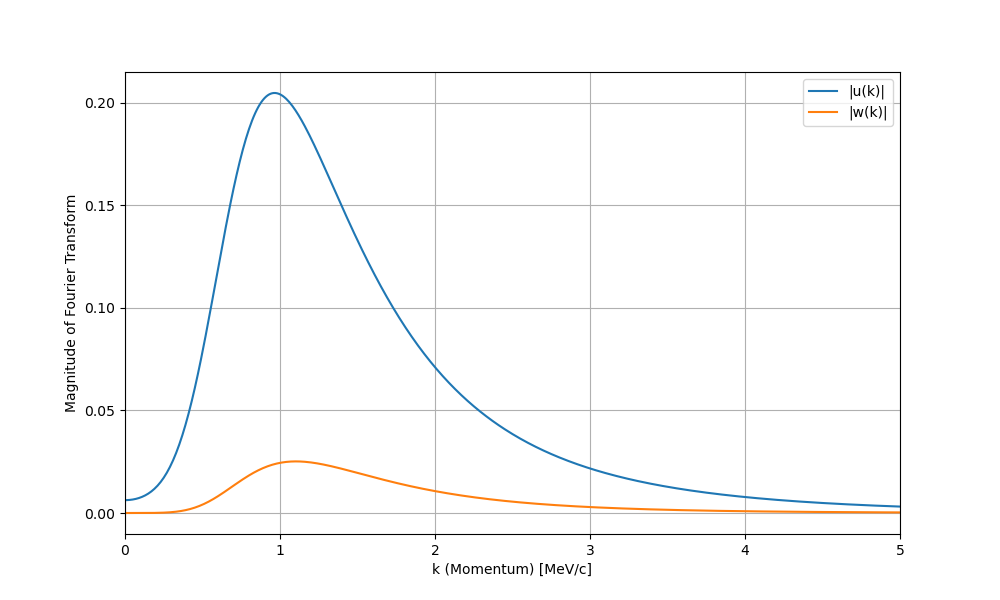
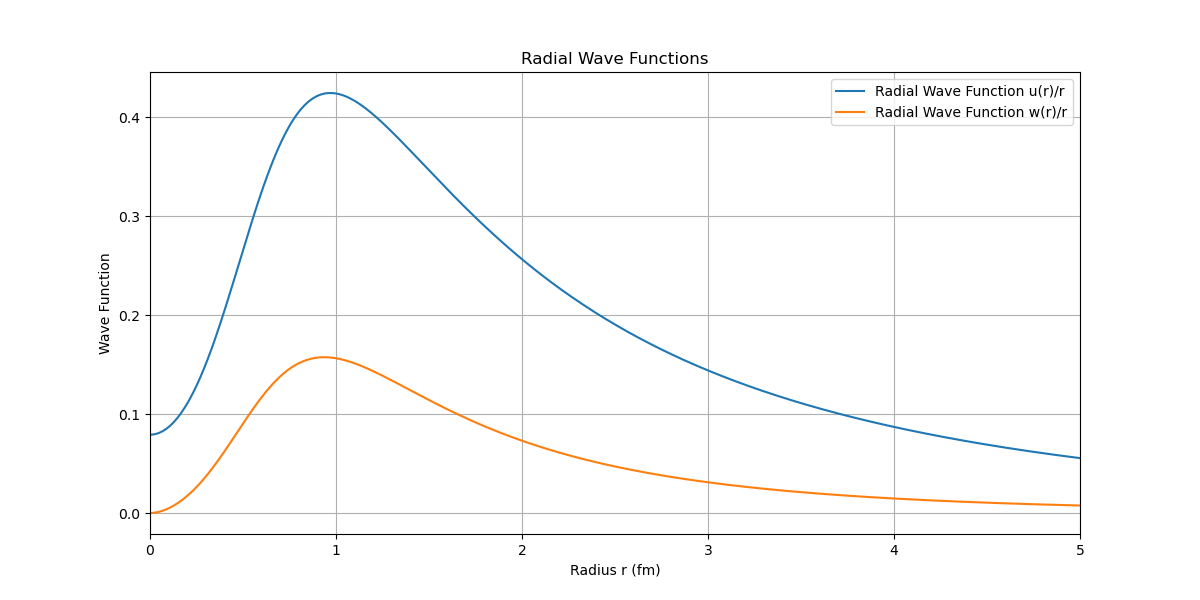
modified Deuteron fig label to u/r and w/r

diff --git a/Deuteron_AV18.py b/Deuteron_AV18.py
@@ -196,42 +196,44 @@ r = np.linspace(r0, r0 + delta * n, n + 1)
 E, u, w = norm_uw()
 
 plt.figure(figsize=(12, 6))
-plt.plot(r, u, label='Radial Wave Function u(r)')
-plt.plot(r, w, label='Radial Wave Function w(r)')
+plt.plot(r, u/r, label='Radial Wave Function u(r)/r')
+plt.plot(r, w/r, label='Radial Wave Function w(r)/r')
+plt.xlim(0,5)
 plt.title("Radial Wave Functions")
 plt.xlabel('Radius r (fm)')
 plt.ylabel('Wave Function')
 plt.legend()
 plt.grid(True)
+plt.savefig("Fig-Deuteron.png")
 plt.show()
 
 
-def fourier_transform(func_values, k, r_values):
-    integrand = func_values * np.exp(-1j * k * r_values) * r_values**2
-    result = np.trapz(integrand, r_values)
-    normalization_factor = 1 / np.sqrt(2 * np.pi)
-    return result * normalization_factor
+# def fourier_transform(func_values, k, r_values):
+#     integrand = func_values * np.exp(-1j * k * r_values) * r_values**2
+#     result = np.trapz(integrand, r_values)
+#     normalization_factor = 1 / np.sqrt(2 * np.pi)
+#     return result * normalization_factor
 
-k_values = np.linspace(0, 10, 200)
+# k_values = np.linspace(0, 10, 200)
 
-# u = [fourier_transform(u, k, r) for k in k_values]
-# w = [fourier_transform(w, k, r) for k in k_values]
+# # u = [fourier_transform(u, k, r) for k in k_values]
+# # w = [fourier_transform(w, k, r) for k in k_values]
 
-theta = np.pi / 2  # np.linspace(0, np.pi, n+1)
-phi = np.pi  # np.linspace(0, 2 * np.pi, n+1)
-theta, phi = np.meshgrid(theta, phi)
-Y_00 = sph_harm(0, 0, phi, theta)
-Y_21 = sph_harm(1, 2, phi, theta)
-phi = u * Y_00 + w * Y_21
+# theta = np.pi / 2  # np.linspace(0, np.pi, n+1)
+# phi = np.pi  # np.linspace(0, 2 * np.pi, n+1)
+# theta, phi = np.meshgrid(theta, phi)
+# Y_00 = sph_harm(0, 0, phi, theta)
+# Y_21 = sph_harm(1, 2, phi, theta)
+# phi = u * Y_00 + w * Y_21
 
-phi_k_values = [fourier_transform(phi, k, r) for k in k_values]
+# phi_k_values = [fourier_transform(phi, k, r) for k in k_values]
 
-plt.figure(figsize=(12, 6))
-plt.plot(k_values, np.real(phi_k_values), label='Real part of Phi(k)')
-plt.plot(k_values, np.imag(phi_k_values), label='Imaginary part of Phi(k)')
-plt.title("Fourier Transform of Wave Function Phi in Momentum Space")
-plt.xlabel("Momentum k (1/fm)")
-plt.ylabel("Fourier Transform")
-plt.legend()
-plt.grid(True)
-plt.show()
+# plt.figure(figsize=(12, 6))
+# plt.plot(k_values, np.real(phi_k_values), label='Real part of Phi(k)')
+# plt.plot(k_values, np.imag(phi_k_values), label='Imaginary part of Phi(k)')
+# plt.title("Fourier Transform of Wave Function Phi in Momentum Space")
+# plt.xlabel("Momentum k (1/fm)")
+# plt.ylabel("Fourier Transform")
+# plt.legend()
+# plt.grid(True)
+# plt.show()

diff --git a/Deuteron_Gauss.py b/Deuteron_Gauss.py
@@ -82,7 +82,7 @@ if __name__ == "__main__":
         plt.title("Deuteron Wave Function with Gauss potential")
         plt.legend()
         plt.grid()
-        plt.show()
         plt.savefig("Fig-Gauss")
+        plt.show()
     else:
         print("Energy eigenvalue E not found within the given range.")
